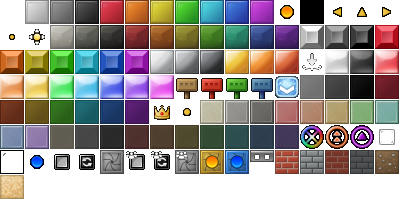
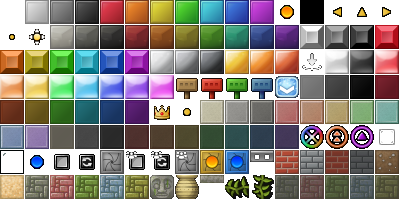
added jungle pack

Changed region(s): [[0.06, 0.87, 1.0, 1.0]]

diff --git a/static files/mapcolor.js b/static files/mapcolor.js
@@ -129,4 +129,20 @@ mapColors.set(90, 2965071)
 mapColors.set(91, 4339544)
 mapColors.set(0, -1)
 
+mapColors.set(113, 7829862)
+mapColors.set(114, 10840673)
+mapColors.set(115, 6914876)
+mapColors.set(116, 7440788)
+mapColors.set(117, 8421949)
+mapColors.set(118, 8618870)
+mapColors.set(119, 11904107)
+mapColors.set(120, -1)
+mapColors.set(121, -1)
+mapColors.set(122, -1)
+mapColors.set(123, 5592909)
+mapColors.set(124, 6771020)
+mapColors.set(125, 5331773)
+mapColors.set(126, 5529183)
+mapColors.set(127, 5855806)
+
 export const mapColor = mapColors

diff --git a/static files/arguments.js b/static files/arguments.js
@@ -116,4 +116,20 @@ argument.set(90, [])
 argument.set(91, [])
 argument.set(0, [])
 
+argument.set(113, [])
+argument.set(114, [])
+argument.set(115, [])
+argument.set(116, [])
+argument.set(117, [])
+argument.set(118, [])
+argument.set(119, [])
+argument.set(120, [3])
+argument.set(121, [])
+argument.set(122, [])
+argument.set(123, [])
+argument.set(124, [])
+argument.set(125, [])
+argument.set(126, [])
+argument.set(127, [])
+
 export const args = argument
